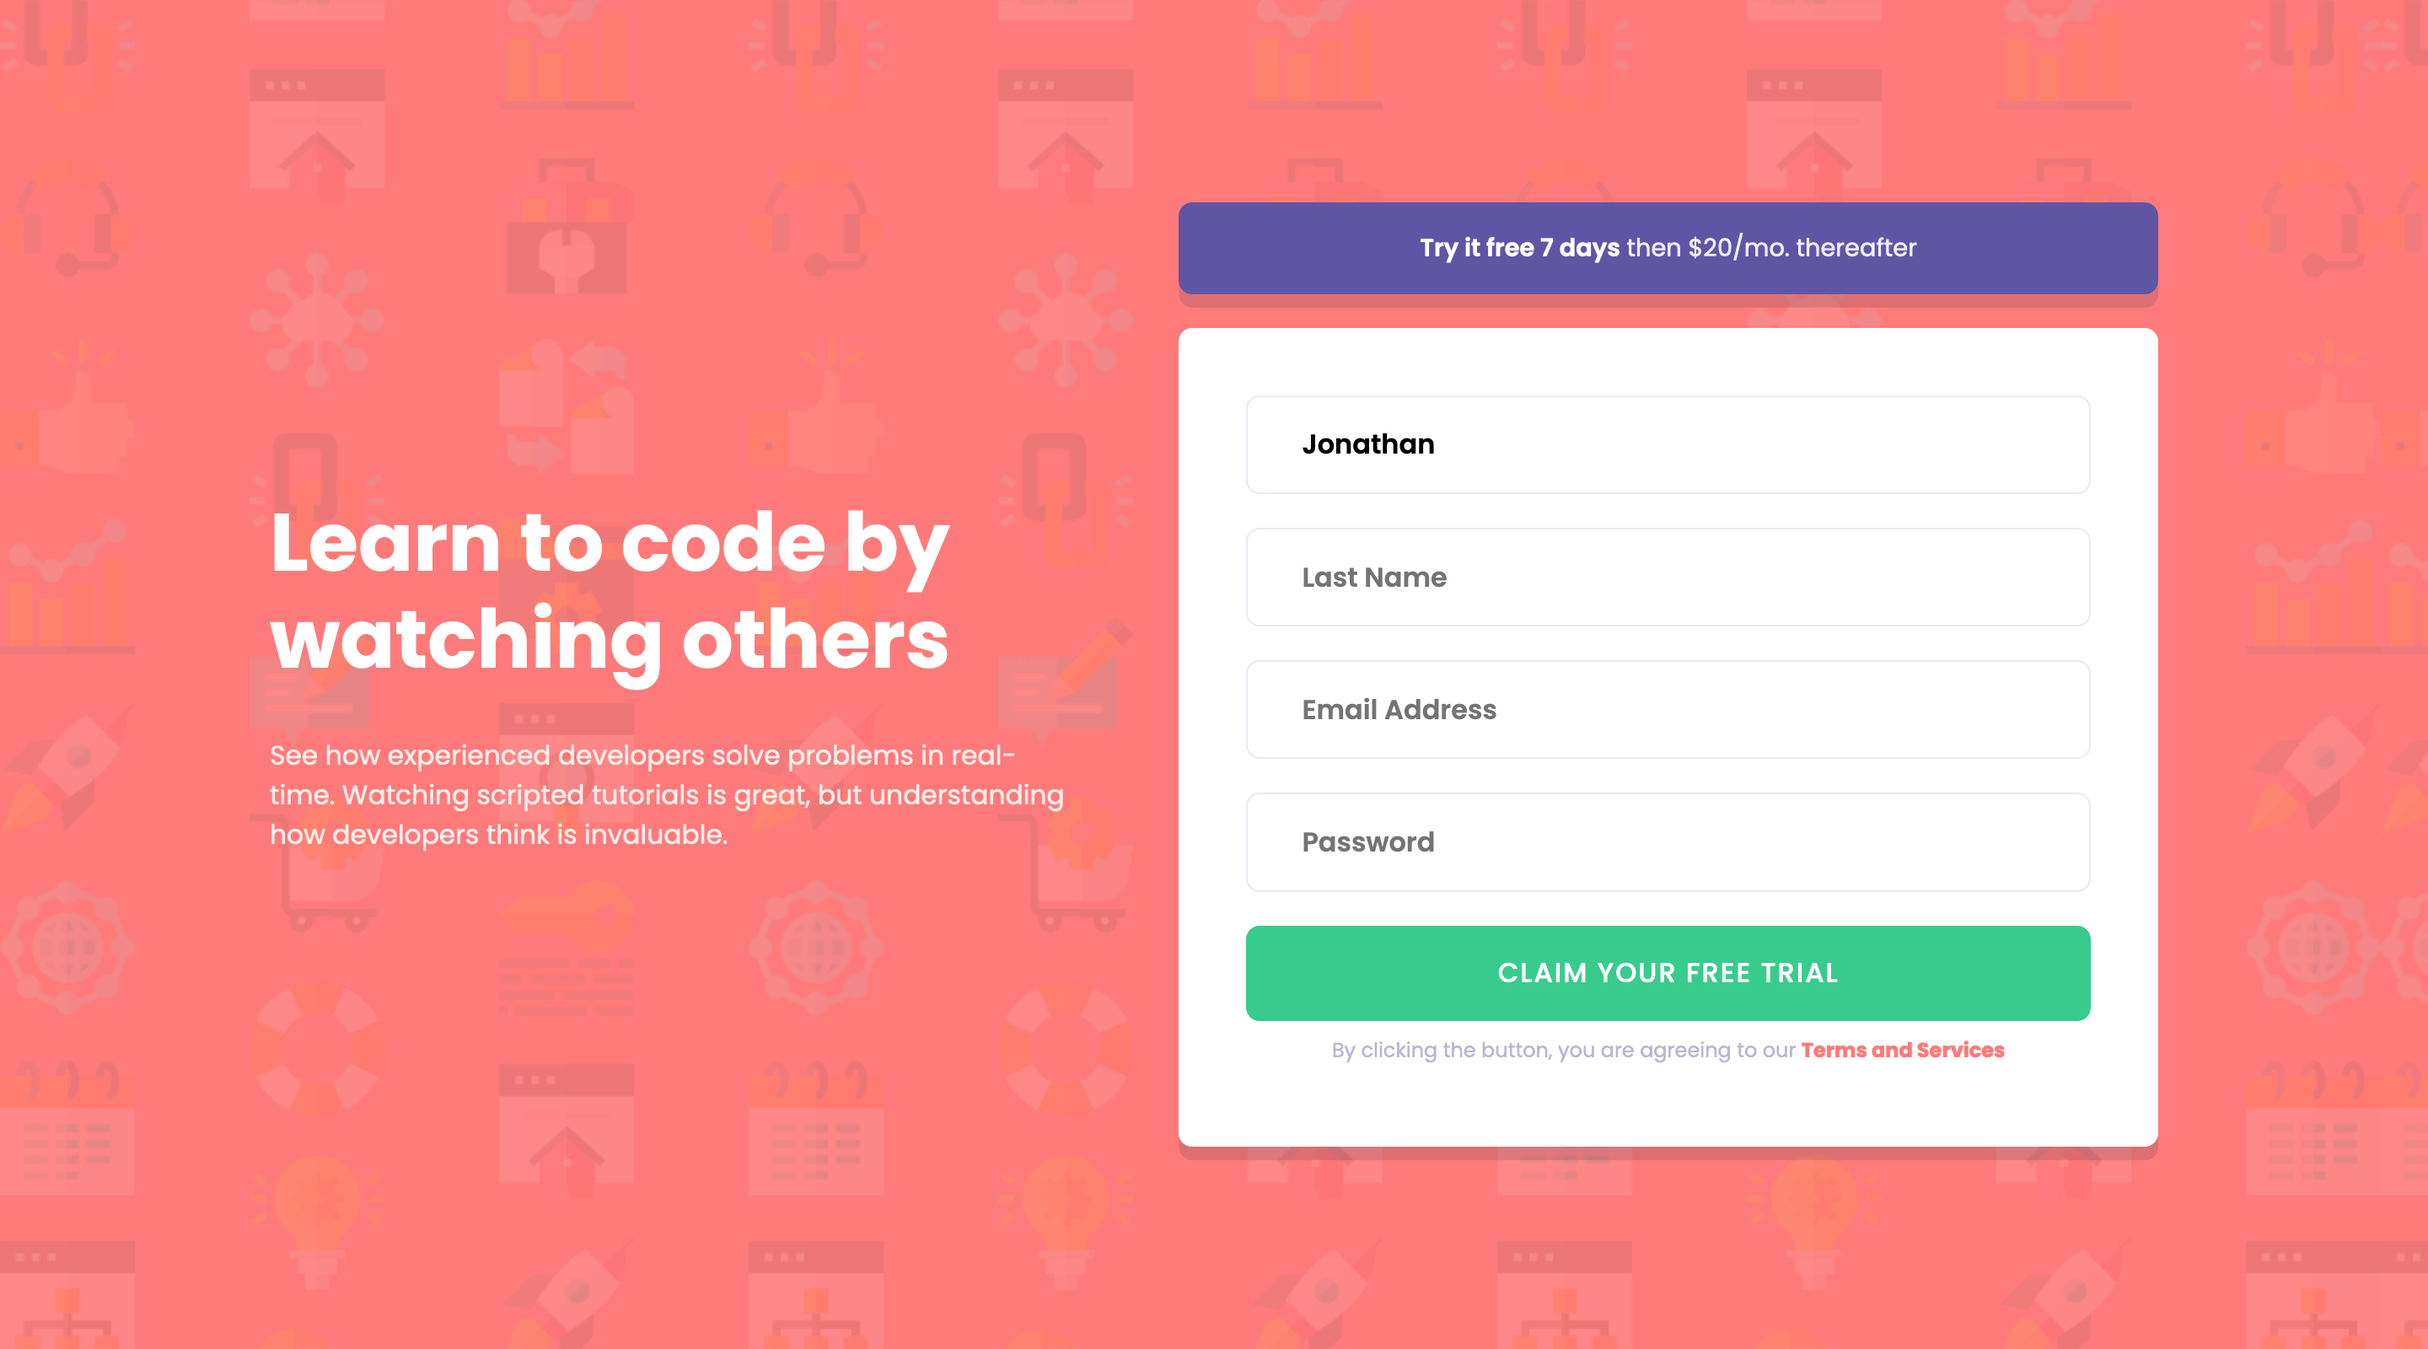
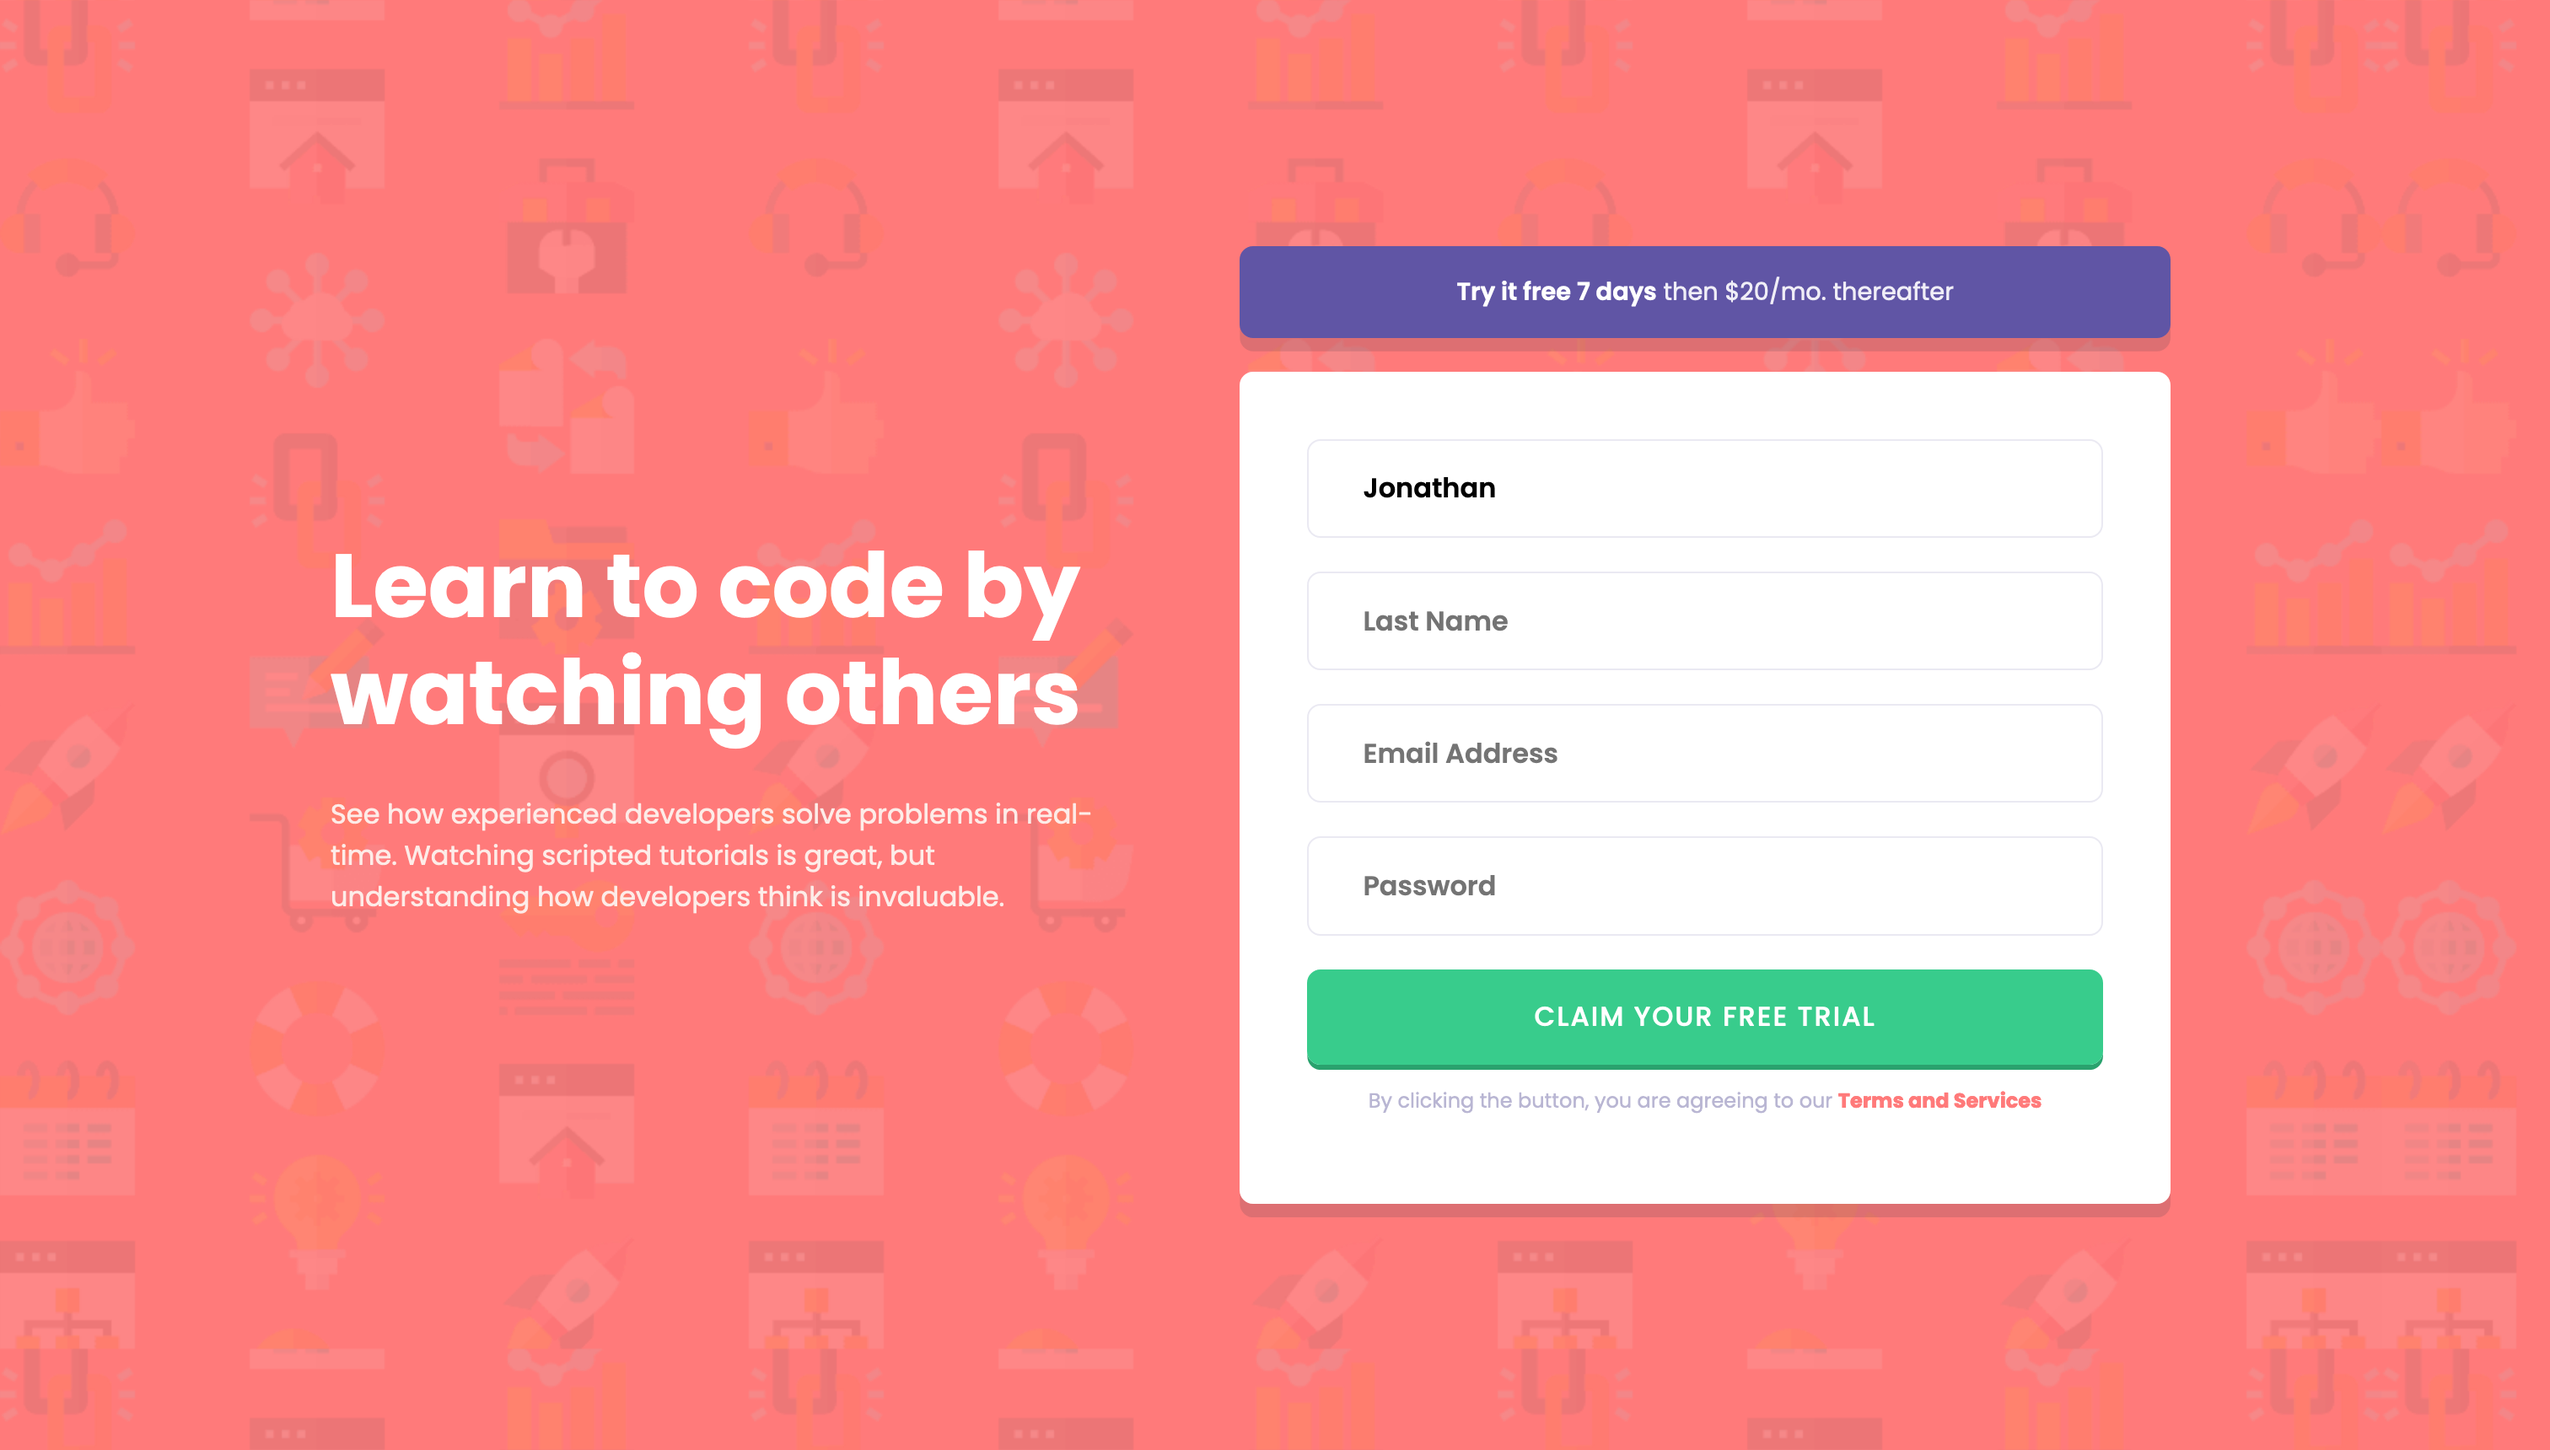
Added index.js and logic for client side validation.

diff --git a/style.css b/style.css
@@ -56,6 +56,7 @@ body {
     font-family: var(--ff-default);
     background-image: url(images/bg-intro-mobile.png);
     background-color: var(--clr-primary-500);
+    padding-block: min(5rem, 15vh);
 }
 
 @media (min-width: 800px) {
@@ -68,7 +69,7 @@ main {
     display: grid;
     text-align: center;
     width: min(90%, 70rem);
-    row-gap: 6rem;
+    row-gap: 3rem;
     column-gap: 4rem;
 }
 
@@ -89,31 +90,51 @@ header {
 }
 
 .pitch-title {
-    font-size: clamp(3rem, 3vw, 4rem);
+    font-size: clamp(1.75rem, 3.5vw, 4rem);
     line-height: 1.2;
     font-weight: var(--fw-bold);
 }
 
 .pitch-details {
-    font-size: clamp(0.85rem, 3vw, 0.98rem);
+    /* font-size: clamp(0.9rem, 3vw, 0.98rem); */
+    font-size: 1rem;
     color: hsl(12, 83%, 95%);
+    width: 93%;
+    margin-inline: auto;
+}
+
+@media (min-width: 600px) {
+    .pitch-details {
+        width: 100%;
+    }
 }
 
 .information-field {
-    /* width: 95%; */
     display: flex;
     flex-direction: column;
     row-gap: 1.25rem;
+}
+
+@media (min-width: 800px) {
+    .information-field {
+        width: 95%;
+    }
 }
 
 .trial {
     background-color: var(--clr-accent-700);
     border-radius: var(--br);
     text-align: center;
-    font-size: clamp(0.75rem, 2vw, 0.9rem);
-    padding: 1rem;
+    font-size: clamp(0.85rem, 2vw, 0.9rem);
+    padding: 1rem 5rem;
     color: hsl(251, 34%, 95%);
     box-shadow: var(--box-shadow);
+}
+
+@media (min-width: 600px) {
+    .trial {
+        padding: 1rem;
+    }
 }
 
 strong {
@@ -128,7 +149,7 @@ form {
     background-color: var(--clr-neutral-100);
     border-radius: var(--br);
     box-shadow: var(--box-shadow);
-    padding: 2.5rem;
+    padding: min(7vw, 2.5rem);
 }
 
 .form-fields {
@@ -136,6 +157,7 @@ form {
     padding: 0;
     display: grid;
     row-gap: 1.25rem;
+    position: relative;
 }
 
 input {
@@ -149,6 +171,24 @@ input:active {
     outline: none;
     border-color: var(--clr-accent-700);
     color: var(--clr-neutral-700);
+}
+
+input.error {
+    border: 2px solid var(--clr-primary-500);
+    color: var(--clr-primary-500);
+    position: relative;
+}
+
+form.error span::after {
+    content: '';
+    display: block;
+    background-image: url(images/icon-error.svg);
+    width: 1.5rem;
+    height: 1.5rem;
+    margin-inline-start: auto;
+    position: absolute;
+    bottom: 2.5rem;
+    right: 2rem;
 }
 
 button {
@@ -176,4 +216,13 @@ button:focus {
 .disclaimer strong {
     color: var(--clr-primary-500);
     font-weight: var(--fw-bold);
+}
+
+span.error {
+    width: 100%;
+    text-align: right;
+    font-size: calc(var(--fs-p) * 0.75);
+    color: var(--clr-primary-500);
+    font-style: italic;
+    position: relative;
 }

diff --git a/index.html b/index.html
@@ -5,8 +5,9 @@
   <meta name="viewport" content="width=device-width, initial-scale=1.0"> <!-- displays site properly based on user's device -->
 
   <link rel="icon" type="image/png" sizes="32x32" href="./images/favicon-32x32.png">
-  <link href="https://fonts.googleapis.com/css2?family=Poppins:wght@400;500;600;700&display=swap" rel="stylesheet"> 
+  <link href="https://fonts.googleapis.com/css2?family=Poppins:ital,wght@0,400;0,500;0,600;0,700;1,400&display=swap" rel="stylesheet"> 
   <link rel="stylesheet" href="style.css">
+  <script type="module" src="index.js"></script>
   
   <title>Frontend Mentor | Intro component with sign up form</title>
 
@@ -23,23 +24,27 @@
     </header>
     <section class="information-field">
       <h3 class="trial"><strong>Try it free 7 days</strong> then $20/mo. thereafter</h3>
-      <form action="#">
+      <form action="#" novalidate>
         <ul class="form-fields">
           <li class="form-field">
             <label for="firstName"></label>
             <input type="text" placeholder="First Name" id="firstName" required>
+            <span class="error" aria-live="polite" data-js="firstName"></span>
           </li>
           <li class="form-field">
             <label for="lastName"></label>
             <input type="text" placeholder="Last Name" id="lastName" required>
+            <span class="error" aria-live="polite" data-js="lastName"></span>
           </li>
           <li class="form-field">
             <label for="email"></label>
             <input type="email" placeholder="Email Address" id="email" required>
+            <span class="error" aria-live="polite" data-js="email"></span>
           </li>
           <li class="form-field">
             <label for="password"></label>
             <input type="password" placeholder="Password" id="password" required>
+            <span class="error" aria-live="polite" data-js="password"></span>
           </li>
           <li>
             <button>CLAIM YOUR FREE TRIAL</button>

diff --git a/index.js b/index.js
@@ -1,0 +1,51 @@
+const inputs = document.querySelectorAll('input');
+const form = document.querySelector('form');
+
+const firstName = document.querySelector('#firstName');
+const lastName = document.querySelector('#lastName');
+const email = document.querySelector('#email');
+const password = document.querySelector('#password');
+
+form.addEventListener('submit', (e) => {
+    e.preventDefault();
+    if (!form.reportValidity()) {
+        form.classList.add('error');
+    };
+})
+
+firstName.addEventListener('invalid', () => {
+    firstName.classList.add('error');
+
+    const inputId = firstName.id;
+    const errorSpan = document.querySelector(`[data-js='${inputId}'`);
+    errorSpan.style.display = 'inline-block';
+    errorSpan.textContent = 'First Name cannot be empty';
+});
+
+lastName.addEventListener('invalid', () => {
+    lastName.classList.add('error');
+
+    const inputId = lastName.id;
+    const errorSpan = document.querySelector(`[data-js='${inputId}'`);
+    errorSpan.style.display = 'inline-block';
+    errorSpan.textContent = 'Last Name cannot be empty';
+});
+
+email.addEventListener('invalid', () => {
+    email.classList.add('error');
+    email.placeholder = 'email@example/com';
+
+    const inputId = email.id;
+    const errorSpan = document.querySelector(`[data-js='${inputId}'`);
+    errorSpan.style.display = 'inline-block';
+    errorSpan.textContent = 'Looks like this is not an email';
+});
+
+password.addEventListener('invalid', () => {
+    password.classList.add('error');
+
+    const inputId = password.id;
+    const errorSpan = document.querySelector(`[data-js='${inputId}'`);
+    errorSpan.style.display = 'inline-block';
+    errorSpan.textContent = 'Password cannot be empty';
+});
